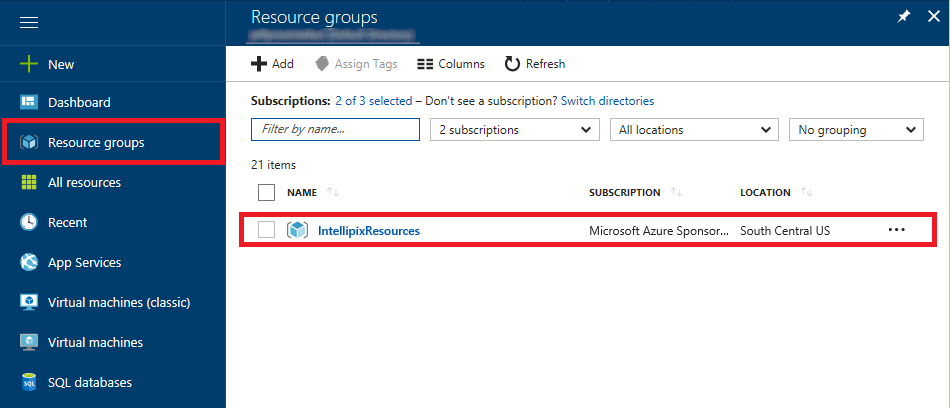
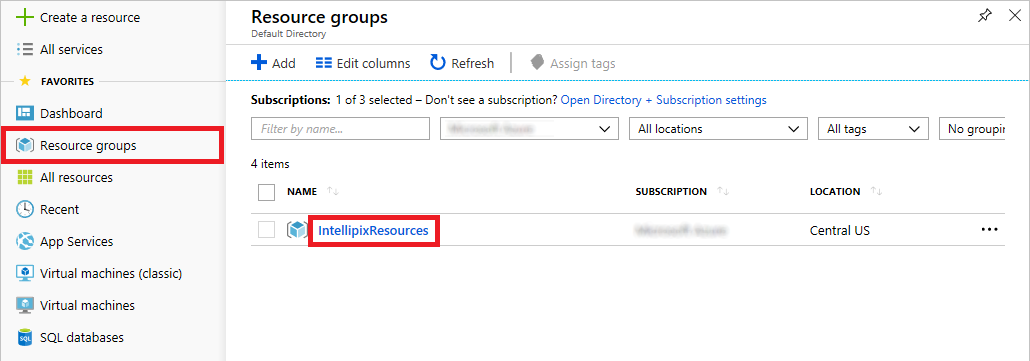
Updated storage labs

diff --git a/Labs/Azure Services/Azure Storage/Azure Storage and Cognitive Services (Java).md b/Labs/Azure Services/Azure Storage/Azure Storage and Cognitive Services (Java).md
@@ -73,12 +73,10 @@ The [Azure Portal](https://portal.azure.com) allows you to perform basic storage
 
     _Creating a storage account_
 
-1. In the ensuing "Create storage account" blade, enter a name for the new storage account in **Name** field. The name is important, because it forms one part of the URL through which blobs created under this account are accessed.
+1. Enter a unique name for the storage account in **Name** field and make sure a green check mark appears next to it. The name is important, because it forms one part of the URL through which blobs created under this account are accessed. Place the storage account in a new resource group named "IntellipixResources," and select the region nearest you. Finish up by clicking the **Review + create** button at the bottom of the blade to create the new storage account.
 
 	> Storage account names can be 3 to 24 characters in length and can only contain numbers and lowercase letters. In addition, the name you enter must be unique within Azure. If someone else has chosen the same name, you'll be notified that the name isn't available with a red exclamation mark in the **Name** field.
-
-	Once you have a name that Azure will accept, make sure **Resource manager** is selected as the deployment model and **General purpose** is selected as the account type. Then select **Create new** under **Resource group** and enter "IntellipixResources" as the resource-group name. Select the **Location** nearest you, and finish up by clicking the **Create** button at the bottom of the blade to create the new storage account.
-    
+   
 	![Specifying parameters for a new storage account](Images/create-storage-account.png)
 
     _Specifying parameters for a new storage account_

diff --git a/Labs/Azure Services/Azure Storage/Azure Storage and Cognitive Services (MVC).md b/Labs/Azure Services/Azure Storage/Azure Storage and Cognitive Services (MVC).md
@@ -67,12 +67,10 @@ The [Azure Portal](https://portal.azure.com) allows you to perform basic storage
 
     _Creating a storage account_
 
-1. In the ensuing "Create storage account" blade, enter a name for the new storage account in **Name** field. The name is important, because it forms one part of the URL through which blobs created under this account are accessed.
+1. Enter a unique name for the storage account in **Name** field and make sure a green check mark appears next to it. The name is important, because it forms one part of the URL through which blobs created under this account are accessed. Place the storage account in a new resource group named "IntellipixResources," and select the region nearest you. Finish up by clicking the **Review + create** button at the bottom of the blade to create the new storage account.
 
 	> Storage account names can be 3 to 24 characters in length and can only contain numbers and lowercase letters. In addition, the name you enter must be unique within Azure. If someone else has chosen the same name, you'll be notified that the name isn't available with a red exclamation mark in the **Name** field.
-
-	Once you have a name that Azure will accept, make sure **Resource manager** is selected as the deployment model and **General purpose** is selected as the account type. Then select **Create new** under **Resource group** and enter "IntellipixResources" as the resource-group name. Select the **Location** nearest you, and finish up by clicking the **Create** button at the bottom of the blade to create the new storage account.
-    
+   
 	![Specifying parameters for a new storage account](Images/create-storage-account.png)
 
     _Specifying parameters for a new storage account_

diff --git a/Labs/Azure Services/Azure Storage/Azure Storage and Cognitive Services (Node).md b/Labs/Azure Services/Azure Storage/Azure Storage and Cognitive Services (Node).md
@@ -72,12 +72,10 @@ The [Azure Portal](https://portal.azure.com) allows you to perform basic storage
 
     _Creating a storage account_
 
-1. In the ensuing "Create storage account" blade, enter a name for the new storage account in **Name** field. The name is important, because it forms one part of the URL through which blobs created under this account are accessed.
+1. Enter a unique name for the storage account in **Name** field and make sure a green check mark appears next to it. The name is important, because it forms one part of the URL through which blobs created under this account are accessed. Place the storage account in a new resource group named "IntellipixResources," and select the region nearest you. Finish up by clicking the **Review + create** button at the bottom of the blade to create the new storage account.
 
 	> Storage account names can be 3 to 24 characters in length and can only contain numbers and lowercase letters. In addition, the name you enter must be unique within Azure. If someone else has chosen the same name, you'll be notified that the name isn't available with a red exclamation mark in the **Name** field.
-
-	Once you have a name that Azure will accept, make sure **Resource manager** is selected as the deployment model and **General purpose** is selected as the account type. Then select **Create new** under **Resource group** and enter "IntellipixResources" as the resource-group name. Select the **Location** nearest you, and finish up by clicking the **Create** button at the bottom of the blade to create the new storage account.
-    
+   
 	![Specifying parameters for a new storage account](Images/create-storage-account.png)
 
     _Specifying parameters for a new storage account_
